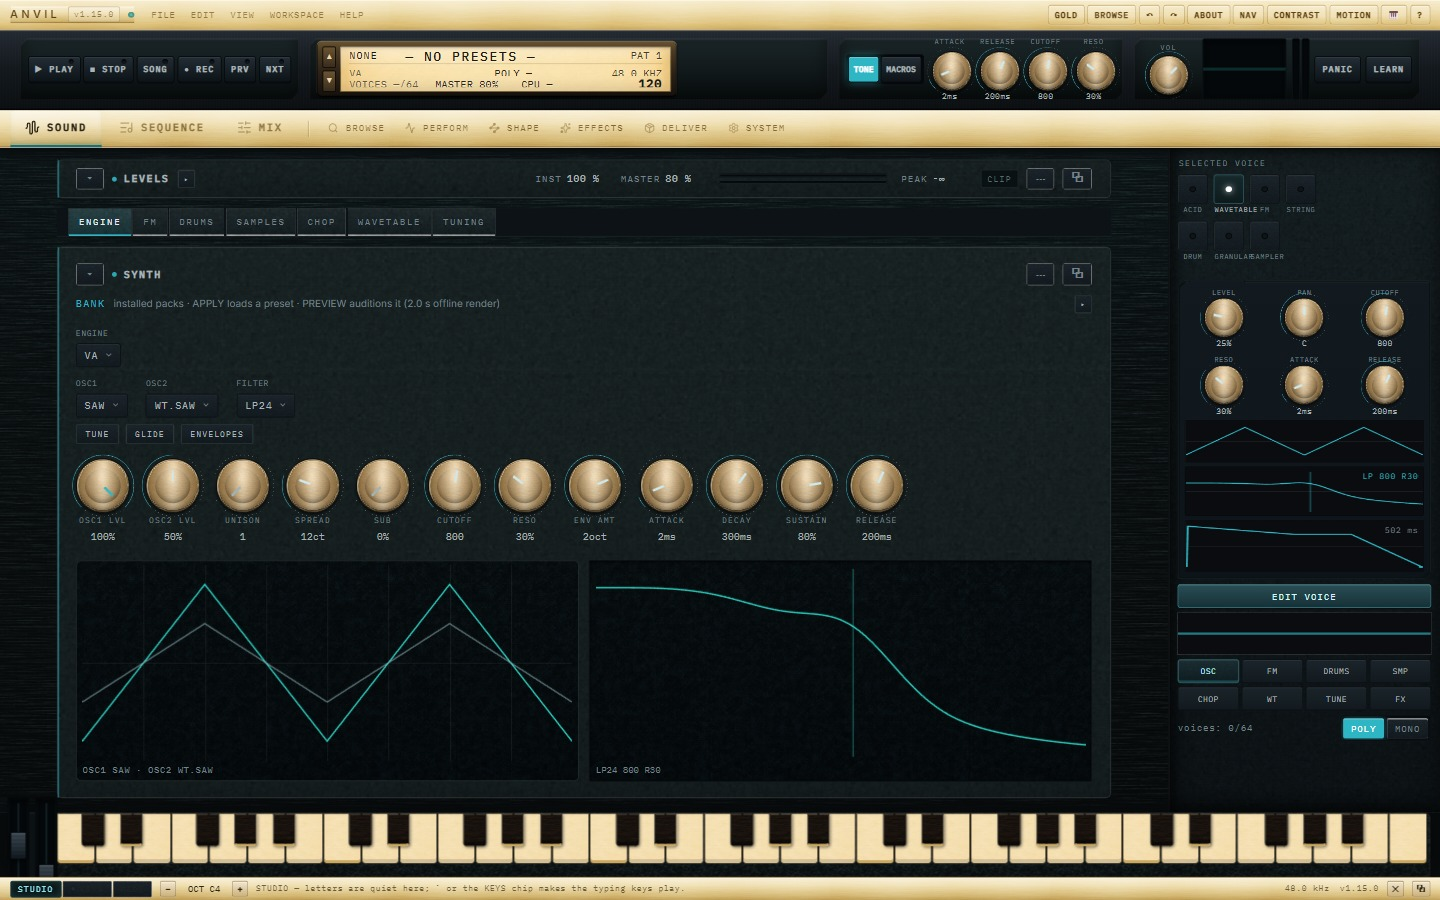
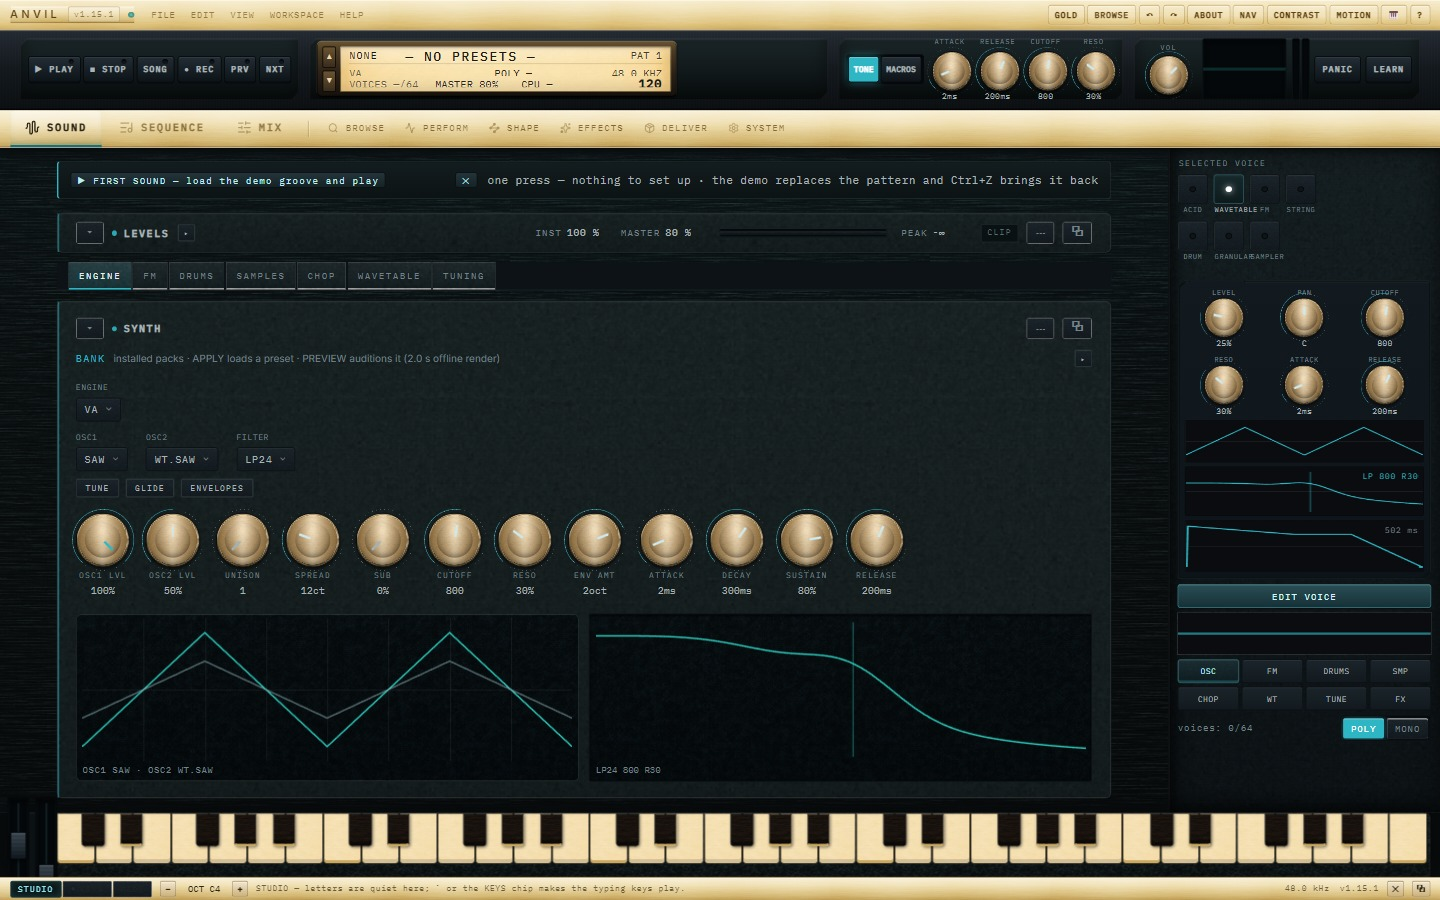
1.15.1: release notes, screenshots re-cut from the packaged build, stress artefact
Shots taken by windows/tools/take_desktop_shots.mjs from windows/stage/Anvil/Anvil.exe
(shell log: 'build 1.15.1 - app ccaff458 - electron 40.10.2'), converted to the three
published JPGs the README and release notes link.

Stress on ccaff45, quiet box (ambient 10.4 CPU-s/10s): 5 deltas total, 1 inside the asserted
envelope - a single quantum in the first 15 s, 2.7 ms in ten minutes. Every other assert passes
(heap 0, drains 15/15, page errors 0, ctx running, cap 27/27). Recorded in the notes rather
than rounded away.

diff --git a/windows/RELEASE-NOTES-1.15.1.md b/windows/RELEASE-NOTES-1.15.1.md
@@ -1,0 +1,71 @@
+# Anvil 1.15.1 - for Windows
+
+A small release on top of 1.15.0. Two things changed: PERFORM now does what its name promised,
+and the boot sequence stopped leaving a tail of audio behind it.
+
+## What's new
+
+**PERFORM has an engine.** The page always said "velocity and key response for the performance
+land here" - and then didn't. It does now, with two real controls on its VOICE panel:
+
+- **Curve** shapes what you play into the engine, note by note. At the centre it is linear; turn
+  it down and the quiet end of your playing gets quieter, so soft passages have somewhere to go.
+  Turn it up and the response flattens toward full level. The mod matrix reads the same curved
+  value, so anything routed from velocity follows it.
+- **Key resp** is how far playing harder opens the filter. At zero it does nothing; at full it
+  moves the cutoff about two octaves from soft to hard, centred on the middle of your playing
+  range rather than on the extremes.
+
+Both are per-patch, like every other control - a session or project remembers them.
+
+It is measured, not asserted: the same note at the same input gain, three interleaved rounds,
+with an analyser on the engine's own master output - soft 0.019, linear 0.058, hard 0.113 peak.
+Ordered in every round.
+
+**The first second after launch is cleaner.** 1.15.0 warmed the engine silently at start-up so
+your first chord didn't stutter, but it restored the output after a fixed delay - which could
+leave a release tail briefly audible if a voice was still ringing. It now waits for the voice
+pool to actually empty before letting sound back out.
+
+## In this release
+
+- Anvil-1.15.1-Setup.exe - the installer. Per-user (no admin prompt), Start Menu entry and
+  desktop shortcut, upgrades install straight over the top, clean uninstall from Add/Remove.
+  Not code-signed yet: SmartScreen will say it hasn't seen this app before - More info, then
+  Run anyway.
+- Anvil-1.15.1-Setup.exe.zip - the same installer as a zip, byte for byte.
+- Anvil-1.15.1-source.zip - the corresponding source for this build (AGPL-3.0-or-later).
+
+## How this build was checked
+
+All 28 app suites ran green on these bytes (hub 68 checks, fit 49, accessibility 37, sessions 65,
+smoke 81). The desktop suite drives the packaged program - 32 checks, green. A silent install,
+then an upgrade over the top, then an uninstall, left user data intact and the registry clean.
+
+Bench on the packaged engine: realtime ratio 1.0, published 64 voices on the light tier, offline
+knee at 96 pass / 128 fail and monotone, zero invalid reads. Alias suite complete.
+
+The stress rig (ten minutes at 64 voices, real knob work, drain checks) reported 5 dropped audio
+buffers in the whole run - 4 of them inside its deliberate unison over-drive probe, and **1 in
+the first fifteen seconds**. On 1.15.0 the same window measured 0. That single buffer is 2.7 ms
+in ten minutes, and the same window has measured 1, 7 and 10 across builds depending on what
+else the machine was doing; it is recorded here rather than rounded away.
+
+## sha256
+
+  24068183c6a56dec6d89921cb9fda671fd285002c568e3a95d5cd07f4d7e26b4  Anvil-1.15.1-Setup.exe
+      100,936,264 bytes
+
+  3b40f4771e7b3a499fb91ef7a542fab011923b9b0ea755ceac200f1e53f283a4  Anvil-1.15.1-Setup.exe.zip
+      100,457,332 bytes
+
+  530fa355b21179544eafd2081e115cb066f00c6b018e4e0cb7428ed71a470cc5  Anvil-1.15.1-source.zip
+      45,769,440 bytes
+
+On Windows: `certutil -hashfile "Anvil-1.15.1-Setup.exe.zip" SHA256`. The exe inside unzips to
+the first hash. The installer carries app build `ccaff458`, the same build that is live at
+moddys.net/anvil.
+
+The download page is also https://moddys.net/moddys-downloads.html.
+
+Cheers Moddy !
